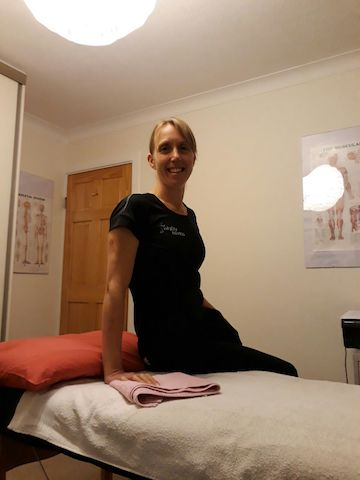
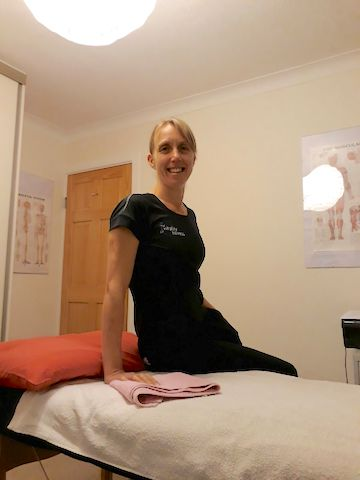
Lightened picture

diff --git a/content/about-sports-massage.md b/content/about-sports-massage.md
@@ -18,3 +18,5 @@ I can provide treatment and advice for many conditions, including:
 - Stretching and flexibility issues
 - Kinesiology taping <span class="badge badge-success">New</span>
 - and many more...
+
+<a class="btn btn-lg btn-success" href="/gift-vouchers/" role="button">Buy Now</a>
